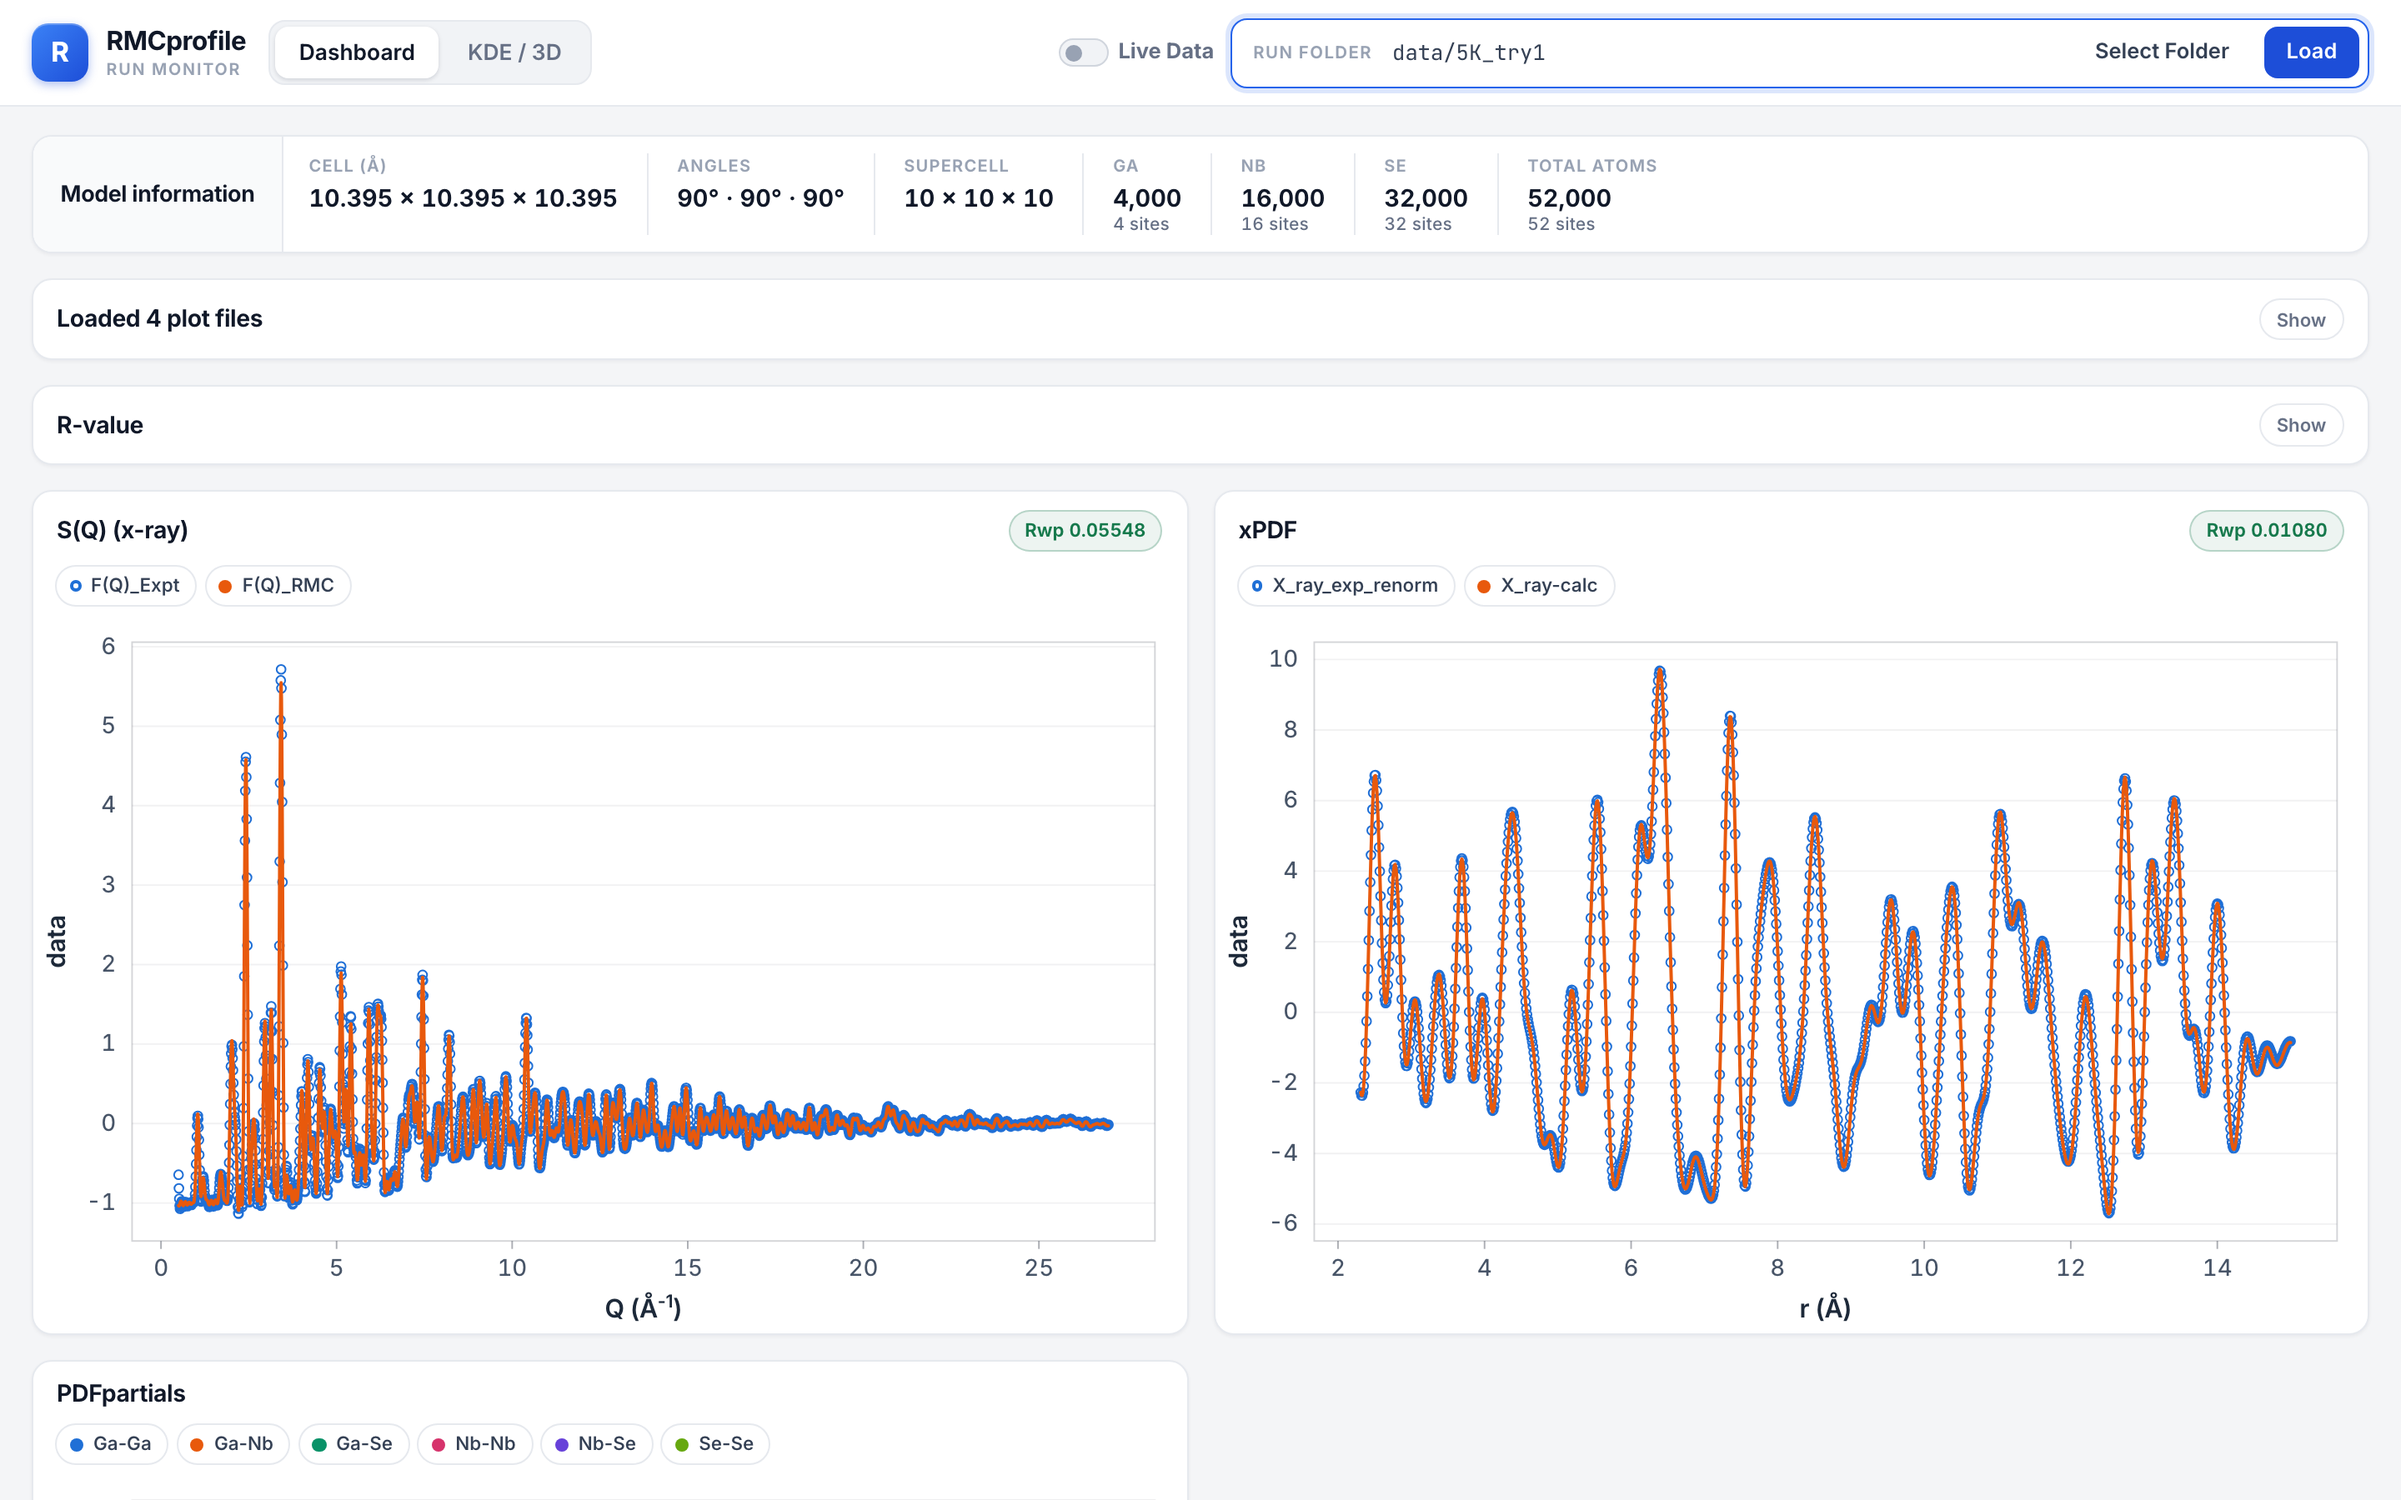
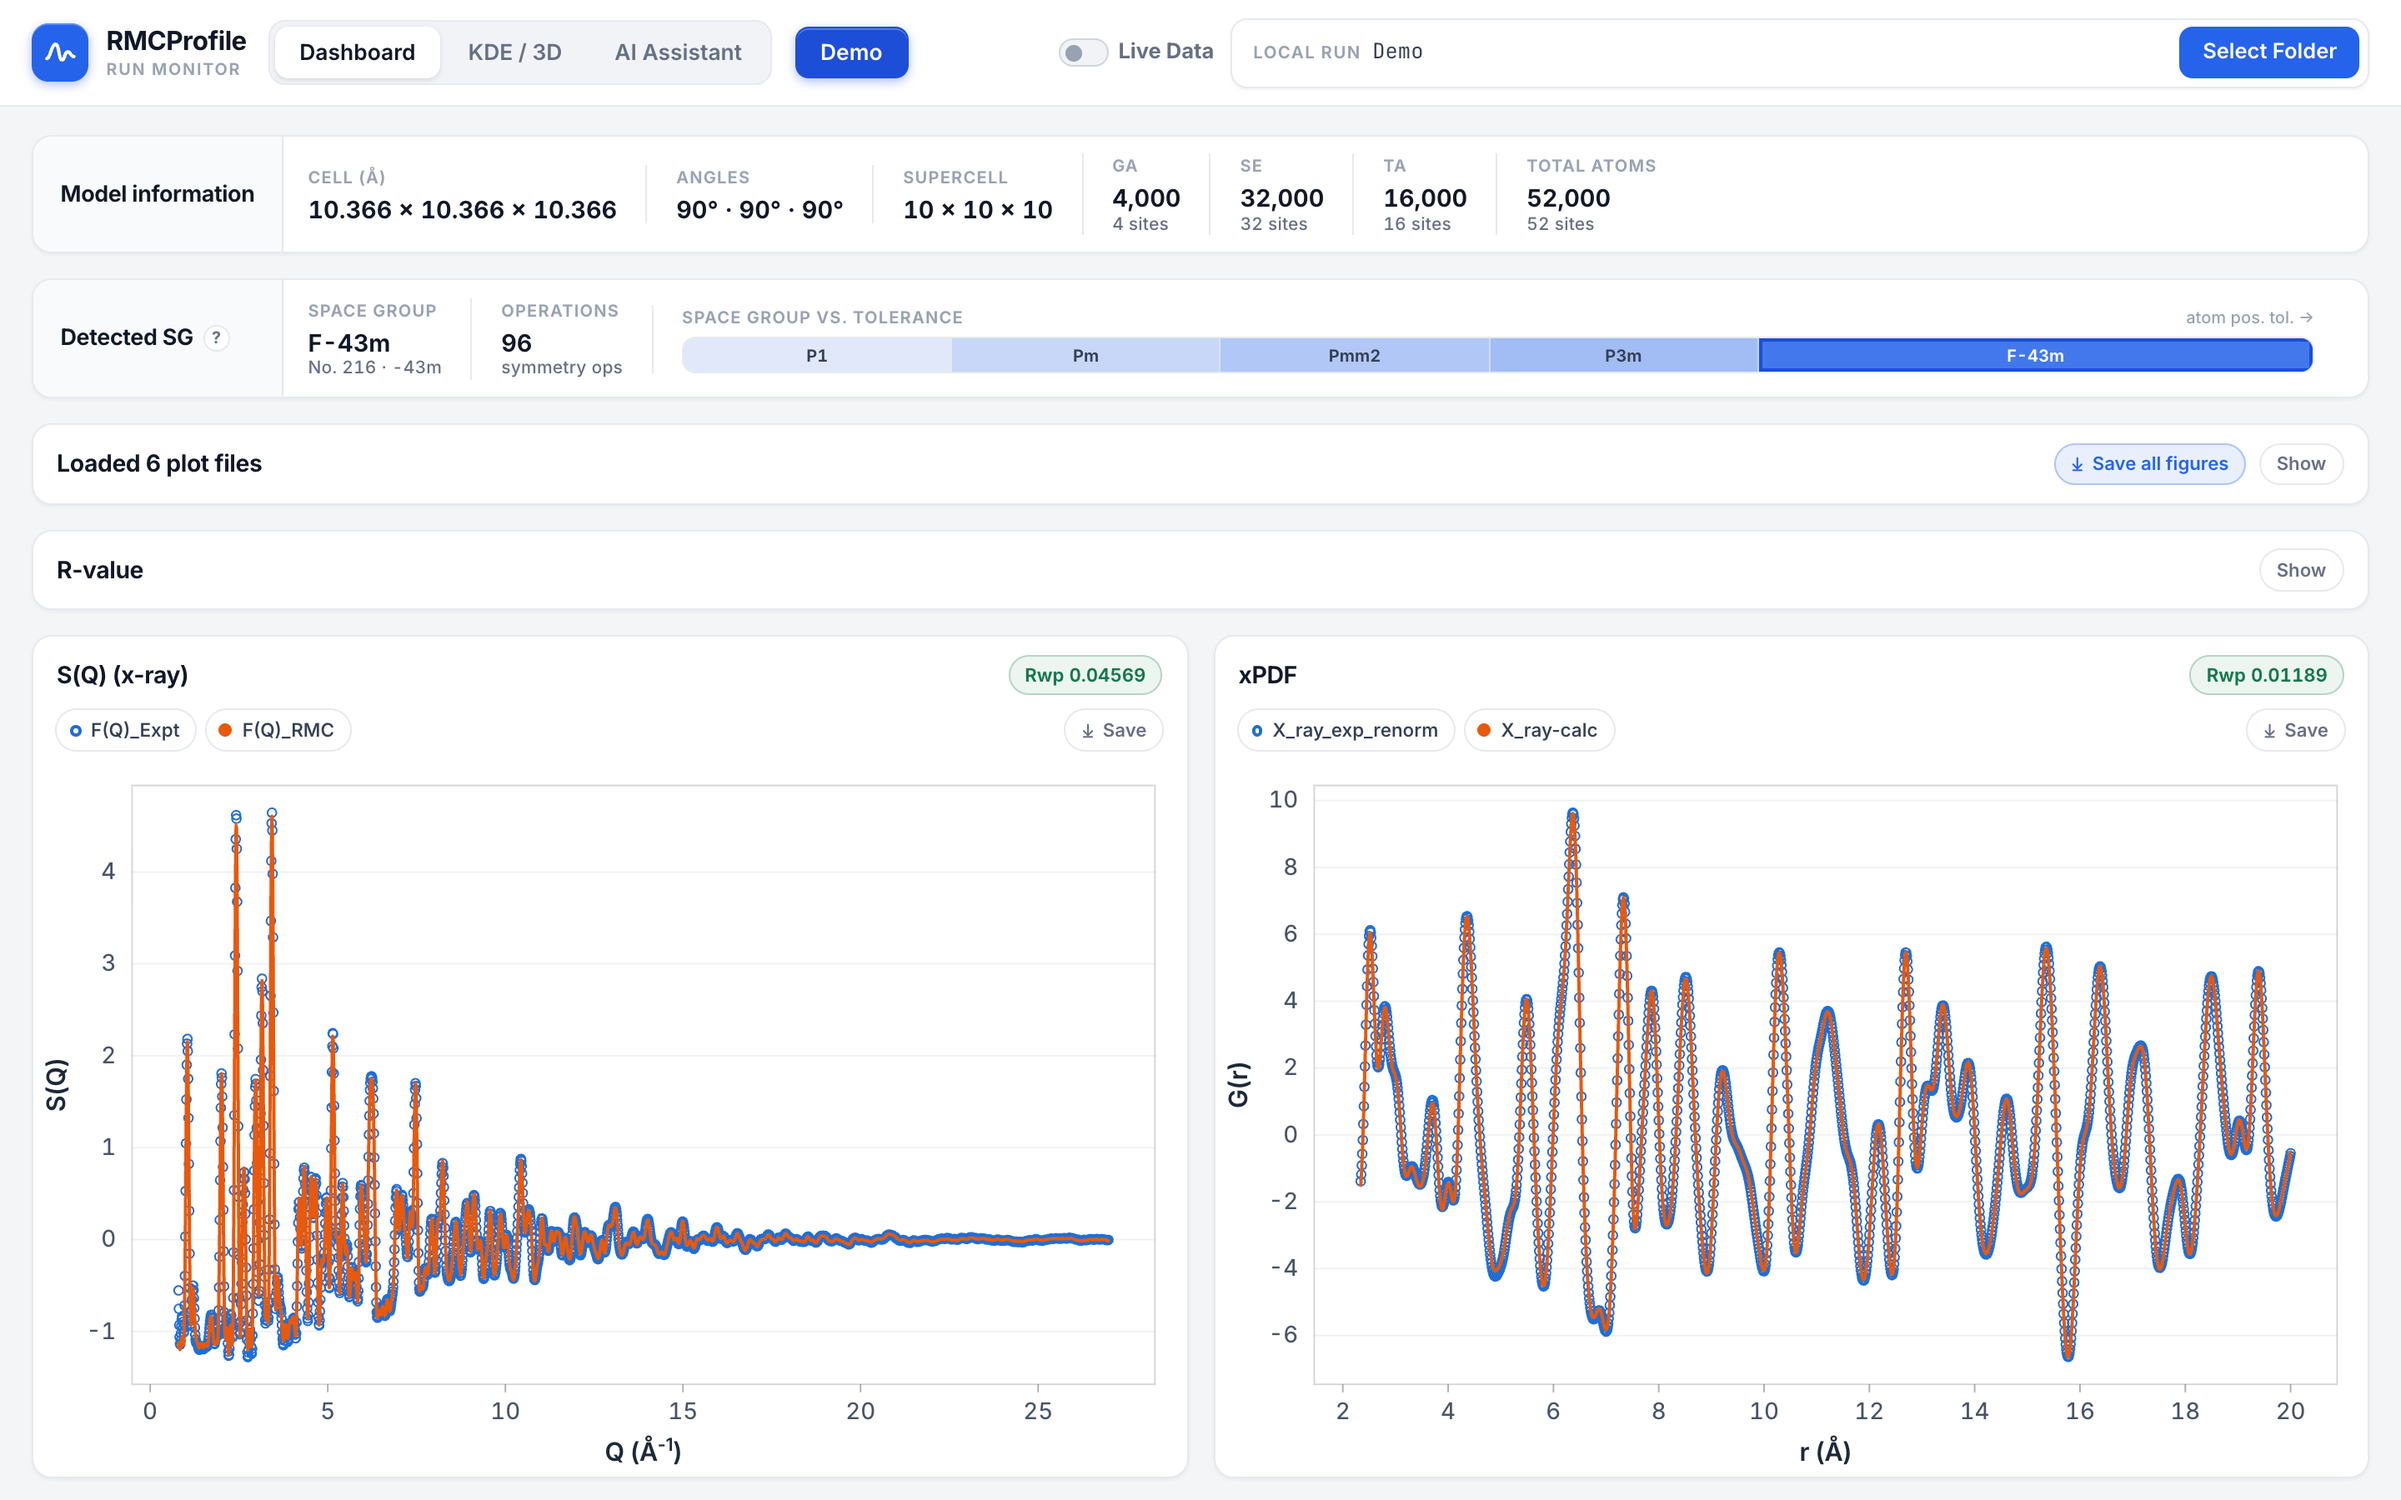
docs(readme): refresh screenshots and add AI Assistant demo GIF (#19)
Recapture the Dashboard and KDE/3D screenshots against the bundled Demo
run so they reflect the current UI (wave brand mark, AI Assistant tab,
Demo button, Detected SG panel).

Add an AI Assistant subsection with a GIF showing a local LLM (LM Studio)
summarizing the demo run as tables, including the streamed reasoning panel.

diff --git a/README.md b/README.md
@@ -69,6 +69,15 @@ API? See [Run locally](#run-locally-optional) and [Python package usage](#python
 | --- | --- |
 | ![dashboard](assets/rmc-toolkits-dashboard.png) | ![KDE](assets/rmc-toolkits-KDE.png) |
 
+### AI Assistant
+
+Ask about the loaded run in plain language. The run's metrics, symmetry, and convergence history
+travel with every message, so answers quote the actual numbers — and reasoning models stream their
+chain of thought in a collapsible *Thinking* panel. Below, a local model (LM Studio) summarizes the
+bundled demo run as a set of tables.
+
+![AI Assistant summarizing a run as tables](assets/rmc-toolkits-assistant.gif)
+
 ## Repository Layout
 
 | Path | Purpose |
